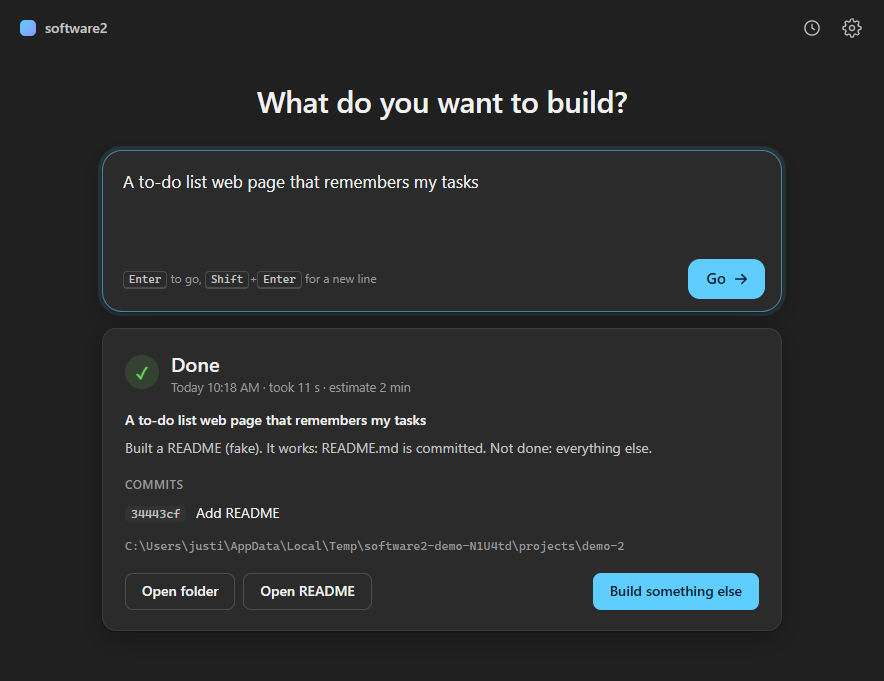
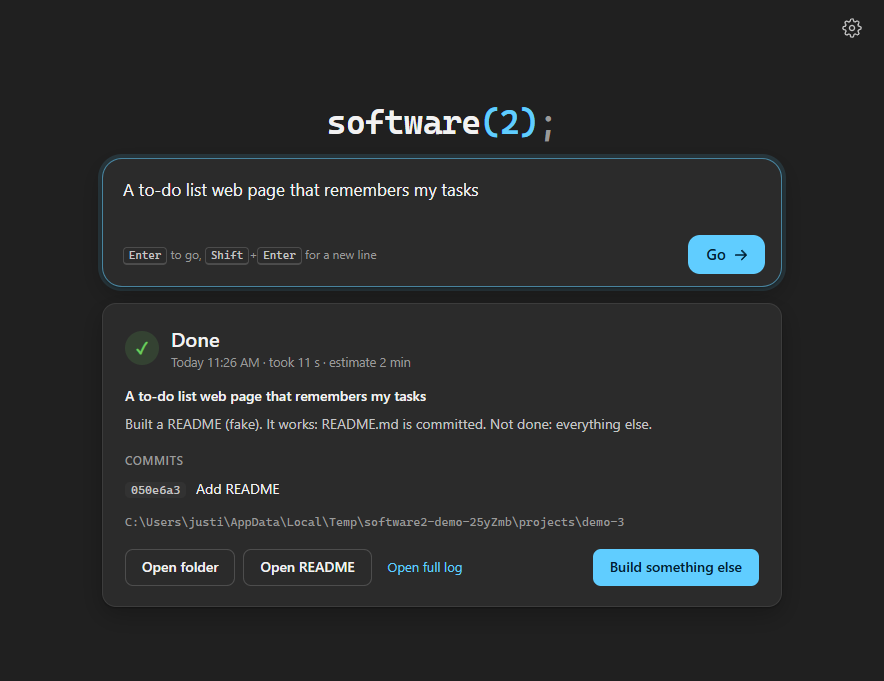
Compact header under a result card, failed-build screenshot, README and notes
With a result card showing, the wordmark shrinks and the question hides so
the card fits the default window. The screenshot walk-through now ends with
a failed build to show Open full log. README screenshots and text updated
for the removed History.

diff --git a/src/renderer/styles.css b/src/renderer/styles.css
@@ -174,6 +174,11 @@ main {
   color: var(--text-2);
   margin: -6px 0 8px;
 }
+/* With a result card below, the wordmark gets smaller and the question goes, so the
+   card fits in the window. */
+.stage:has(#result:not([hidden])) .wordmark { font-size: 34px; }
+.stage:has(#result:not([hidden])) .hero { display: none; }
+.stage:has(#result:not([hidden])) .composer textarea { min-height: 52px; }
 
 .composer {
   background: var(--surface);

diff --git a/README.md b/README.md
@@ -1,5 +1,7 @@
 # software2
 
+`software(2);`
+
 A proof-of-concept Windows app with one text box. You type the software you want,
 the app asks Claude Code for a quick time estimate, you confirm and pick a new
 folder, and Claude Code builds it in one go, headless, with local git only.
@@ -14,7 +16,9 @@ real Claude Code is still to be done.
 (or your API billing, if that is how your Claude Code is signed in). A build can run
 for as long as the time cap in Settings, 30 minutes by default.
 
-![Building, light theme](docs/screenshots/light-building.png)
+| Start (light theme) | Start (dark theme) |
+| --- | --- |
+| ![The start page](docs/screenshots/light-empty.png) | ![The start page, dark](docs/screenshots/dark-empty.png) |
 
 ## How to use it
 
@@ -25,14 +29,19 @@ for as long as the time cap in Settings, 30 minutes by default.
    against the estimate and a thin progress bar. **Stop** kills the build at any time;
    the time cap kills it too.
 4. When it ends you get Claude's summary, the git commits it made, **Open folder**,
-   **Open README** and **Build something else**. Past builds are behind the clock icon
-   (**History**); click one to see its summary again, or **Open full log** for its log.
+   **Open README**, **Open full log** (to see what went wrong in a failed run) and
+   **Build something else**. There is no history of past builds: their folders stay
+   where you put them.
 
 The window follows the Windows light or dark theme.
 
-| Estimate | Result (dark theme) |
+| Estimate | Building |
 | --- | --- |
-| ![The estimate card](docs/screenshots/light-confirm.png) | ![A finished build](docs/screenshots/dark-done.png) |
+| ![The estimate card](docs/screenshots/light-confirm.png) | ![Building, the status line](docs/screenshots/light-building.png) |
+
+| Result (dark theme) | A failed build |
+| --- | --- |
+| ![A finished build](docs/screenshots/dark-done.png) | ![A failed build, with Open full log](docs/screenshots/light-failed.png) |
 
 ## About "build without asking permission"
 
@@ -76,9 +85,10 @@ to work around it. Some builds will not finish that way.
    estimated") and a progress bar.
 6. **Full log**: everything (Claude's text, each tool call as one line, the first lines
    of each result, stderr) goes to a file per run, `%APPDATA%\software2\logs\run-*.log`
-   (the last 100 runs), opened with **Open full log** in History.
-7. **Result**: done, stopped, failed or timed out, saved to
-   `%APPDATA%\software2\history.json` (the last 100 builds).
+   (the last 100 runs), opened with **Open full log** on the result card.
+7. **Result**: done, stopped, failed or timed out, shown on the result card. It is not
+   saved anywhere else (an old `history.json` from earlier versions is left alone and
+   no longer read).
 
 ## Run it in dev
 
@@ -104,9 +114,9 @@ stand-in for the CLI, never the real one.
 ### Demo mode and screenshots
 
 Off by default. `SOFTWARE2_DEMO=1` runs the window against `test/fake-claude.mjs`, with
-a throwaway data folder in `%TEMP%\software2-demo-*` (your real settings and history are
-not touched) and no folder dialog. `SOFTWARE2_SHOTS=<folder>` also walks through every
-state (empty, estimating, confirm, building, done, Settings, History) in light and dark,
+a throwaway data folder in `%TEMP%\software2-demo-*` (your real settings are not
+touched) and no folder dialog. `SOFTWARE2_SHOTS=<folder>` also walks through every
+state (empty, estimating, confirm, building, done, Settings, a failed build) in light and dark,
 saves a PNG of each into that folder and quits. In Git Bash, after `npm run build`:
 
 ```
@@ -140,7 +150,6 @@ src/main/estimate.ts    the estimate run and parsing its JSON reply
 src/main/project.ts     the empty-folder check and git init
 src/main/build.ts       runBuild(): the build run, its flags and its prompt
 src/main/stream.ts      stream-json lines -> readable log lines and the status-line sentence
-src/main/history.ts     history.json: past builds
 src/main/runlog.ts      the full log file per run (userData\logs)
 src/main/demo.ts        demo mode and the screenshot walk-through (off by default)
 prompts/build.md        the build prompt (editable)

diff --git a/CLAUDE.md b/CLAUDE.md
@@ -24,3 +24,4 @@ Electron + TypeScript, plain HTML/CSS renderer, Windows only. See README.md for 
 - Tests don't need the Electron binary: `ELECTRON_SKIP_BINARY_DOWNLOAD=1 npm ci` is enough for `npm test` in a fresh worktree.
 - The window has no log view: the status line sentence is `ParsedLine.activity` (`src/main/stream.ts`) sent via `onActivity`, and the full log goes to `userData\logs\run-*.log` (`src/main/runlog.ts`). The renderer maps flow.ts's `setStatus` words in `onStatus()`, so rewording those needs the renderer too.
 - Check UI changes visually with `SOFTWARE2_SHOTS=<dir>` (demo mode: fake CLI, temp userData, every state in light and dark), then Read the PNGs. In Electron, `rmSync` fails on git's read-only object files; clear the read-only bit first.
+- No build history, on purpose (the user removed it). The result card's Open folder/README/log act on `lastBuild` in main.ts; the page never passes a path.
